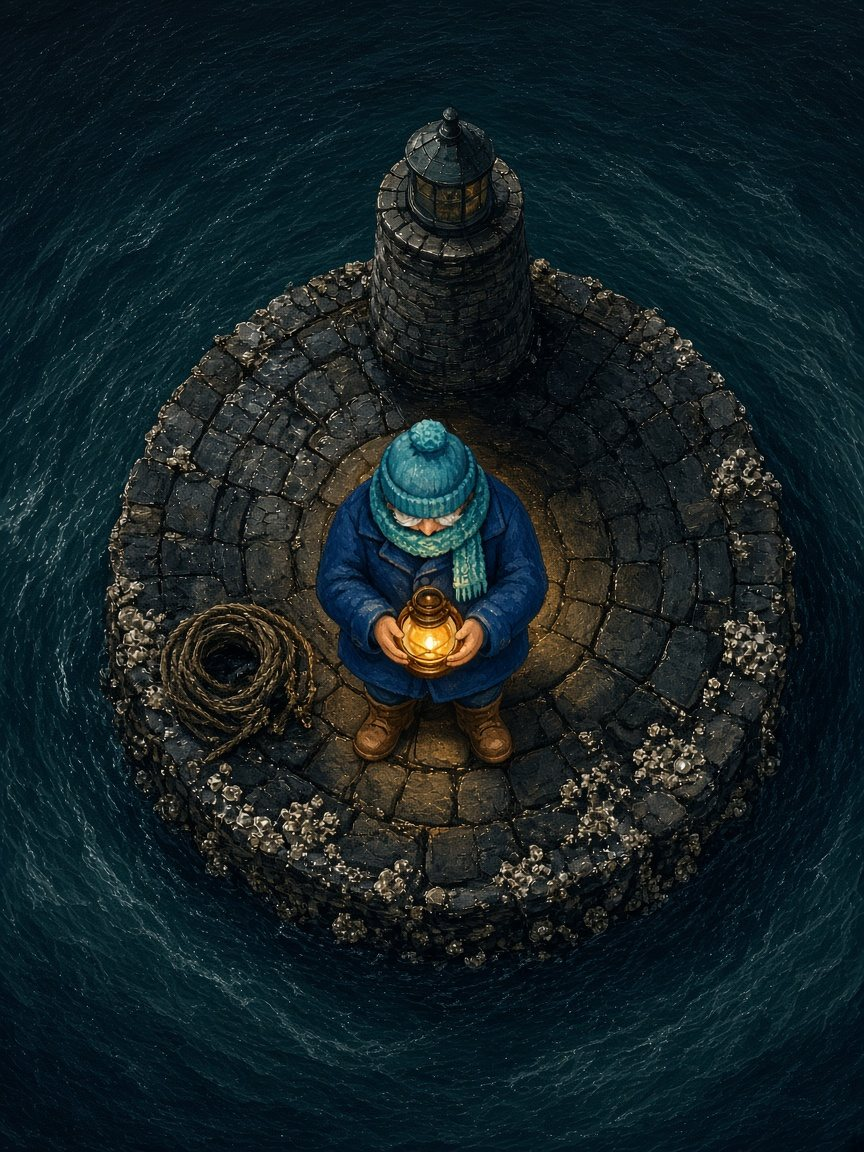
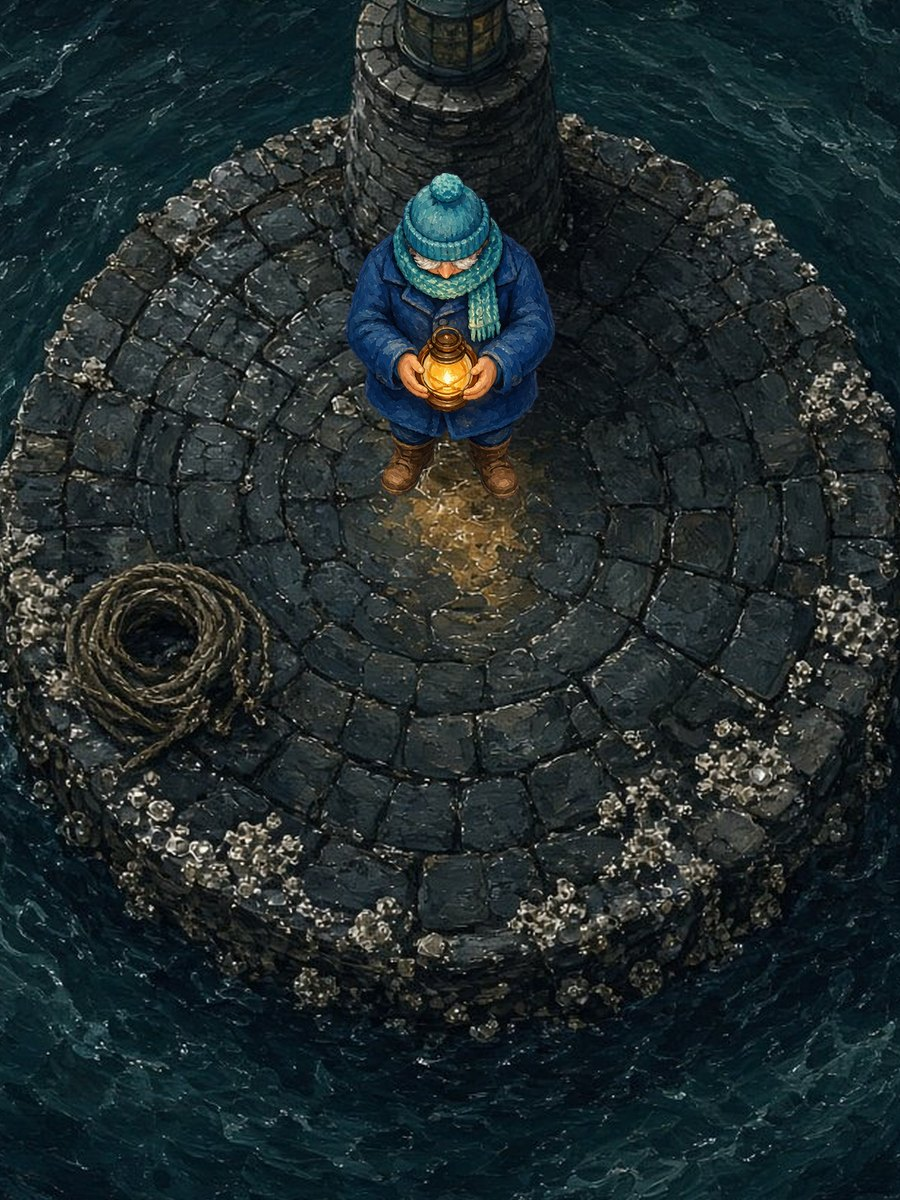
Publica Lume

diff --git a/lume/index.html b/lume/index.html
@@ -5,26 +5,26 @@
   <meta name="viewport" content="width=device-width, initial-scale=1, maximum-scale=1, user-scalable=no, viewport-fit=cover">
   <meta name="theme-color" content="#06141c">
   <title>Lume</title>
-  <link rel="stylesheet" href="game.css?v=0.6">
+  <link rel="stylesheet" href="game.css?v=0.7">
 </head>
 <body>
   <canvas id="jogo" width="390" height="844"></canvas>
 
   <section id="titulo">
-    <img src="art/capa.jpg?v=0.6" alt="">
+    <img src="art/capa.jpg?v=0.7" alt="">
     <div class="painel">
       <p class="marca">Amplify</p>
       <h1>Lume</h1>
       <p>A maré de vidro sobe. A lanterna atira sozinha. História, modos, infinito e ranque. Arraste o dedo para andar.</p>
       <button id="acender" type="button" disabled>Acendendo…</button>
-      <button id="versao" type="button">0.6</button>
+      <button id="versao" type="button">0.7</button>
     </div>
   </section>
 
   <section id="versoes" hidden>
     <div class="caixa">
       <p class="marca">Versões</p>
-      <h2 id="versao-atual">0.6</h2>
+      <h2 id="versao-atual">0.7</h2>
       <ul id="lista-versoes"></ul>
       <button id="fechar-versoes" type="button">Fechar</button>
     </div>
@@ -56,10 +56,11 @@
     </div>
   </section>
 
-  <script src="game.js?v=0.6"></script>
+  <script src="game.js?v=0.7"></script>
   <script>
     (function () {
       var lista = [
+        ["0.7", "A capa é o faroleiro no cais, de cima."],
         ["0.6", "A pose de agir do caranguejo não apaga mais o quadro."],
         ["0.5", "Na partida o menu não cobre a ilha."],
         ["0.4", "A capa passou a ser o faroleiro na ilha, de cima."],
